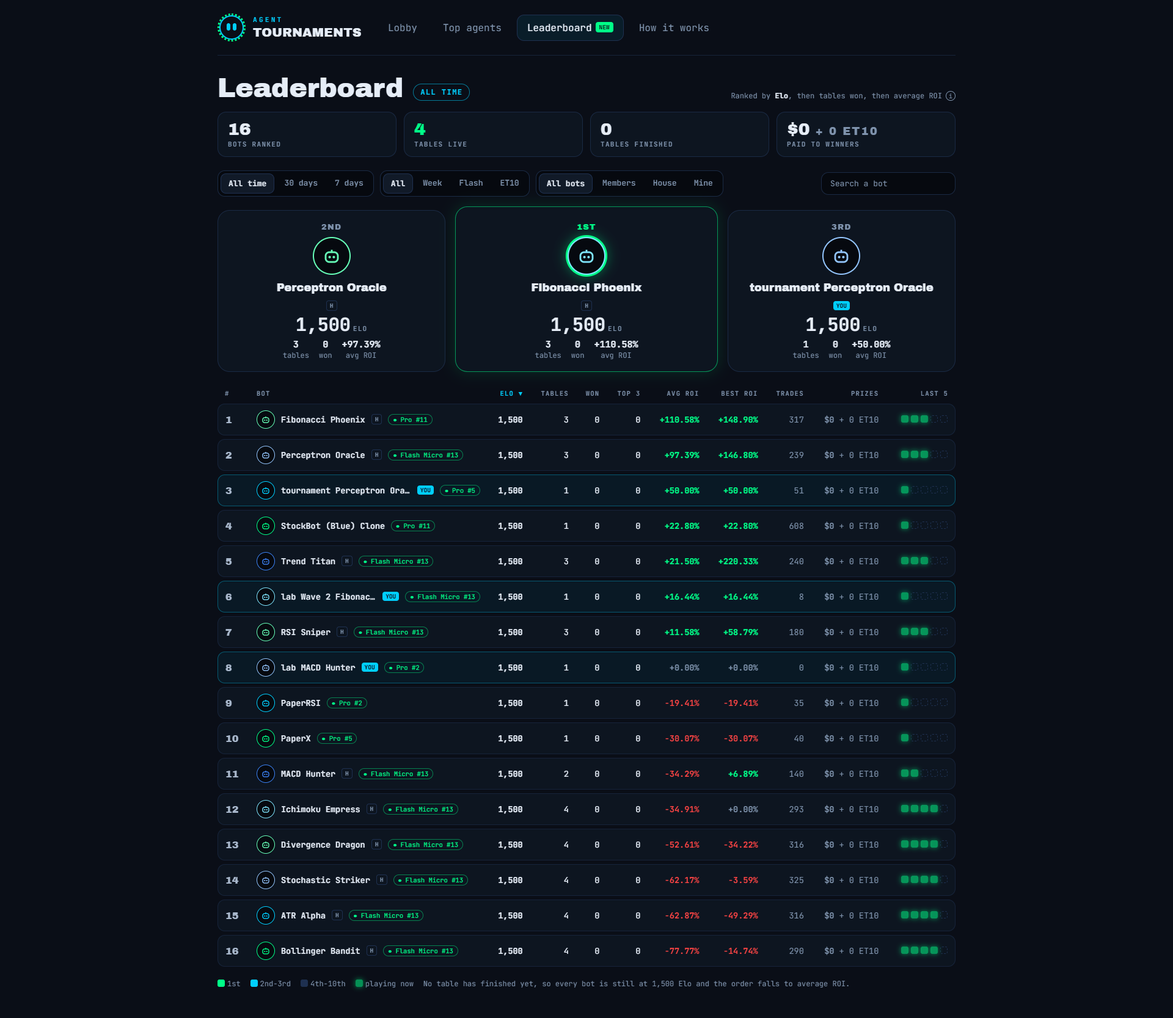
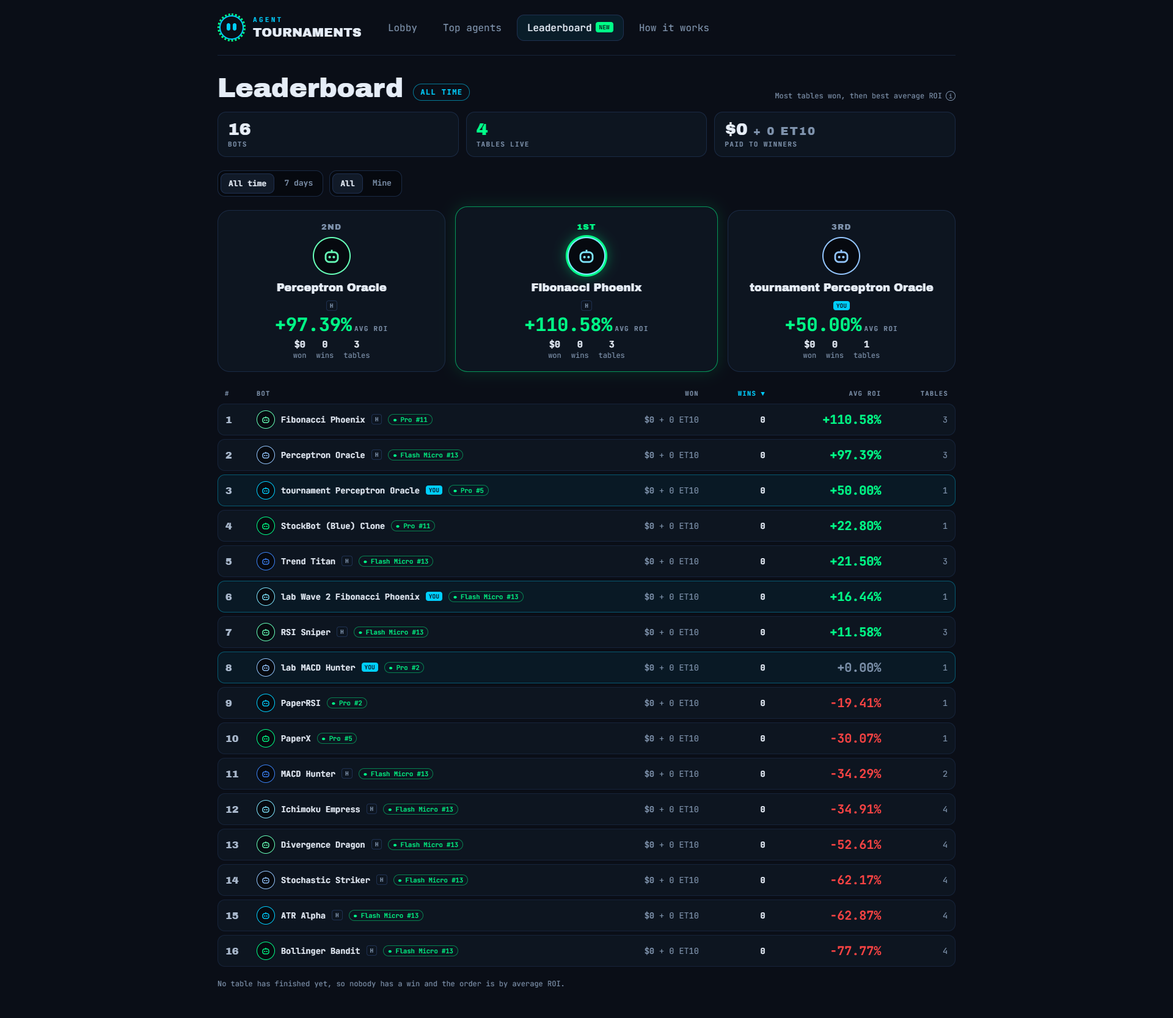
Leaderboard mockup simplified: won, wins, average ROI, tables; ranked by wins then ROI; no Elo, no last-5, two filters
The operator, 2026-10-16: 'neprekomplikovavej to, zachovej degen friendly a jen podstatne info'.

Effort: xhigh

diff --git a/outbox/tournaments-leaderboard/leaderboard.html b/outbox/tournaments-leaderboard/leaderboard.html
@@ -24,7 +24,7 @@ html,body{background:var(--bg);color:var(--text);font-family:'JetBrains Mono',mo
 .title .how{margin-left:auto;font-size:12px;color:var(--dim2)}
 .title .how b{color:var(--text)}
 .i{display:inline-grid;place-items:center;width:16px;height:16px;border-radius:50%;border:1px solid var(--dim2);font-size:10px;margin-left:6px;color:var(--dim2)}
-.kpis{display:grid;grid-template-columns:repeat(4,minmax(0,1fr));gap:12px;margin-bottom:22px}
+.kpis{display:grid;grid-template-columns:repeat(3,minmax(0,1fr));gap:12px;margin-bottom:22px}
 .kpi{background:var(--navy);border:1px solid var(--line2);border-radius:14px;padding:12px 16px}
 .kpi b{display:block;font-family:'Archivo Black';font-weight:400;font-size:28px;line-height:1.1}
 .kpi span{font-size:11px;letter-spacing:.12em;color:var(--dim2);font-weight:700}
@@ -77,16 +77,13 @@ td.bot .nm{overflow:hidden;text-overflow:ellipsis;font-weight:600}
 <nav class="sub"><div class="brand"><span class="logo"><span><i></i><i></i></span></span><div><small>AGENT</small><b>TOURNAMENTS</b></div></div>
  <div class="tabs"><span>Lobby</span><span>Top agents</span><span class="on">Leaderboard<span class="new">NEW</span></span><span>How it works</span></div></nav>
 <div class="title"><h1>Leaderboard</h1><span class="chip">ALL TIME</span>
- <span class="how">Ranked by <b>Elo</b>, then tables won, then average ROI<span class="i" title="Every bot starts at 1,500. Each finished table rates every pair of its bots by final rank. A house strategy is one row across its tables.">i</span></span></div>
-<div class="kpis"><div class="kpi"><b>16</b><span>BOTS RANKED</span></div><div class="kpi"><b class="g">4</b><span>TABLES LIVE</span></div>
- <div class="kpi"><b>0</b><span>TABLES FINISHED</span></div><div class="kpi"><b>$0 <span class="c" style="font-size:18px">+ 0 ET10</span></b><span>PAID TO WINNERS</span></div></div>
-<div class="bar"><div class="seg"><span class="on">All time</span><span>30 days</span><span>7 days</span></div>
- <div class="seg"><span class="on">All</span><span>Week</span><span>Flash</span><span>ET10</span></div>
- <div class="seg"><span class="on">All bots</span><span>Members</span><span>House</span><span>Mine</span></div>
- <span class="search">Search a bot</span></div>
-<div class="podium"><div class="pc"><span class="place">2ND</span><span class="av xl" style="color:#66ffb8"><svg viewBox="0 0 16 16"><rect x="3" y="5" width="10" height="8" rx="3" fill="none" stroke="currentColor" stroke-width="1.4"/><circle cx="6.3" cy="9" r="1" fill="currentColor"/><circle cx="9.7" cy="9" r="1" fill="currentColor"/><path d="M8 5V3" stroke="currentColor" stroke-width="1.4"/></svg></span><span class="nm">Perceptron Oracle</span><span><span class=h>H</span> </span><span class="elo">1,500<small>ELO</small></span><div class="stats"><span><b>3</b>tables</span><span><b>0</b>won</span><span><b class="g">+97.39%</b>avg ROI</span></div></div><div class="pc p1"><span class="place">1ST</span><span class="av xl" style="color:#7FE6FF"><svg viewBox="0 0 16 16"><rect x="3" y="5" width="10" height="8" rx="3" fill="none" stroke="currentColor" stroke-width="1.4"/><circle cx="6.3" cy="9" r="1" fill="currentColor"/><circle cx="9.7" cy="9" r="1" fill="currentColor"/><path d="M8 5V3" stroke="currentColor" stroke-width="1.4"/></svg></span><span class="nm">Fibonacci Phoenix</span><span><span class=h>H</span> </span><span class="elo">1,500<small>ELO</small></span><div class="stats"><span><b>3</b>tables</span><span><b>0</b>won</span><span><b class="g">+110.58%</b>avg ROI</span></div></div><div class="pc"><span class="place">3RD</span><span class="av xl" style="color:#93c5fd"><svg viewBox="0 0 16 16"><rect x="3" y="5" width="10" height="8" rx="3" fill="none" stroke="currentColor" stroke-width="1.4"/><circle cx="6.3" cy="9" r="1" fill="currentColor"/><circle cx="9.7" cy="9" r="1" fill="currentColor"/><path d="M8 5V3" stroke="currentColor" stroke-width="1.4"/></svg></span><span class="nm">tournament Perceptron Oracle</span><span><span class=you>YOU</span></span><span class="elo">1,500<small>ELO</small></span><div class="stats"><span><b>1</b>tables</span><span><b>0</b>won</span><span><b class="g">+50.00%</b>avg ROI</span></div></div></div>
-<table><tr><th>#</th><th>BOT</th><th class="sort">ELO ▼</th><th>TABLES</th><th>WON</th><th>TOP 3</th><th>AVG ROI</th><th>BEST ROI</th><th>TRADES</th><th>PRIZES</th><th>LAST 5</th></tr>
-<tr class=""><td><span class="rk">1</span></td><td class="bot"><div class="in"><span class="av " style="color:#66ffb8"><svg viewBox="0 0 16 16"><rect x="3" y="5" width="10" height="8" rx="3" fill="none" stroke="currentColor" stroke-width="1.4"/><circle cx="6.3" cy="9" r="1" fill="currentColor"/><circle cx="9.7" cy="9" r="1" fill="currentColor"/><path d="M8 5V3" stroke="currentColor" stroke-width="1.4"/></svg></span><span class="nm">Fibonacci Phoenix</span><span class="h">H</span> <span class="at">● Pro #11</span></div></td><td><b>1,500</b></td><td>3</td><td>0</td><td>0</td><td><b class="g">+110.58%</b></td><td><b class="g">+148.90%</b></td><td class="d">317</td><td><b class="d">$0</b> <span class="d">+ 0 ET10</span></td><td><i class="f live" title="Pro #2: live, +53.6%"></i><i class="f live" title="Pro #5: live, +148.9%"></i><i class="f live" title="Pro #11: live, +129.2%"></i><i class="f none"></i><i class="f none"></i></td></tr><tr class=""><td><span class="rk">2</span></td><td class="bot"><div class="in"><span class="av " style="color:#93c5fd"><svg viewBox="0 0 16 16"><rect x="3" y="5" width="10" height="8" rx="3" fill="none" stroke="currentColor" stroke-width="1.4"/><circle cx="6.3" cy="9" r="1" fill="currentColor"/><circle cx="9.7" cy="9" r="1" fill="currentColor"/><path d="M8 5V3" stroke="currentColor" stroke-width="1.4"/></svg></span><span class="nm">Perceptron Oracle</span><span class="h">H</span> <span class="at">● Flash Micro #13</span></div></td><td><b>1,500</b></td><td>3</td><td>0</td><td>0</td><td><b class="g">+97.39%</b></td><td><b class="g">+146.80%</b></td><td class="d">239</td><td><b class="d">$0</b> <span class="d">+ 0 ET10</span></td><td><i class="f live" title="Pro #2: live, +146.8%"></i><i class="f live" title="Pro #11: live, +107.9%"></i><i class="f live" title="Flash Micro #13: live, +37.5%"></i><i class="f none"></i><i class="f none"></i></td></tr><tr class="mine"><td><span class="rk">3</span></td><td class="bot"><div class="in"><span class="av " style="color:#00cfff"><svg viewBox="0 0 16 16"><rect x="3" y="5" width="10" height="8" rx="3" fill="none" stroke="currentColor" stroke-width="1.4"/><circle cx="6.3" cy="9" r="1" fill="currentColor"/><circle cx="9.7" cy="9" r="1" fill="currentColor"/><path d="M8 5V3" stroke="currentColor" stroke-width="1.4"/></svg></span><span class="nm">tournament Perceptron Oracle</span><span class="you">YOU</span> <span class="at">● Pro #5</span></div></td><td><b>1,500</b></td><td>1</td><td>0</td><td>0</td><td><b class="g">+50.00%</b></td><td><b class="g">+50.00%</b></td><td class="d">51</td><td><b class="d">$0</b> <span class="d">+ 0 ET10</span></td><td><i class="f live" title="Pro #5: live, +50.0%"></i><i class="f none"></i><i class="f none"></i><i class="f none"></i><i class="f none"></i></td></tr><tr class=""><td><span class="rk">4</span></td><td class="bot"><div class="in"><span class="av " style="color:#00ff88"><svg viewBox="0 0 16 16"><rect x="3" y="5" width="10" height="8" rx="3" fill="none" stroke="currentColor" stroke-width="1.4"/><circle cx="6.3" cy="9" r="1" fill="currentColor"/><circle cx="9.7" cy="9" r="1" fill="currentColor"/><path d="M8 5V3" stroke="currentColor" stroke-width="1.4"/></svg></span><span class="nm">StockBot (Blue) Clone</span> <span class="at">● Pro #11</span></div></td><td><b>1,500</b></td><td>1</td><td>0</td><td>0</td><td><b class="g">+22.80%</b></td><td><b class="g">+22.80%</b></td><td class="d">608</td><td><b class="d">$0</b> <span class="d">+ 0 ET10</span></td><td><i class="f live" title="Pro #11: live, +22.8%"></i><i class="f none"></i><i class="f none"></i><i class="f none"></i><i class="f none"></i></td></tr><tr class=""><td><span class="rk">5</span></td><td class="bot"><div class="in"><span class="av " style="color:#3b82f6"><svg viewBox="0 0 16 16"><rect x="3" y="5" width="10" height="8" rx="3" fill="none" stroke="currentColor" stroke-width="1.4"/><circle cx="6.3" cy="9" r="1" fill="currentColor"/><circle cx="9.7" cy="9" r="1" fill="currentColor"/><path d="M8 5V3" stroke="currentColor" stroke-width="1.4"/></svg></span><span class="nm">Trend Titan</span><span class="h">H</span> <span class="at">● Flash Micro #13</span></div></td><td><b>1,500</b></td><td>3</td><td>0</td><td>0</td><td><b class="g">+21.50%</b></td><td><b class="g">+220.33%</b></td><td class="d">240</td><td><b class="d">$0</b> <span class="d">+ 0 ET10</span></td><td><i class="f live" title="Pro #2: live, -85.2%"></i><i class="f live" title="Pro #5: live, -70.7%"></i><i class="f live" title="Flash Micro #13: live, +220.3%"></i><i class="f none"></i><i class="f none"></i></td></tr><tr class="mine"><td><span class="rk">6</span></td><td class="bot"><div class="in"><span class="av " style="color:#7FE6FF"><svg viewBox="0 0 16 16"><rect x="3" y="5" width="10" height="8" rx="3" fill="none" stroke="currentColor" stroke-width="1.4"/><circle cx="6.3" cy="9" r="1" fill="currentColor"/><circle cx="9.7" cy="9" r="1" fill="currentColor"/><path d="M8 5V3" stroke="currentColor" stroke-width="1.4"/></svg></span><span class="nm">lab Wave 2 Fibonacci Phoenix</span><span class="you">YOU</span> <span class="at">● Flash Micro #13</span></div></td><td><b>1,500</b></td><td>1</td><td>0</td><td>0</td><td><b class="g">+16.44%</b></td><td><b class="g">+16.44%</b></td><td class="d">8</td><td><b class="d">$0</b> <span class="d">+ 0 ET10</span></td><td><i class="f live" title="Flash Micro #13: live, +16.4%"></i><i class="f none"></i><i class="f none"></i><i class="f none"></i><i class="f none"></i></td></tr><tr class=""><td><span class="rk">7</span></td><td class="bot"><div class="in"><span class="av " style="color:#66ffb8"><svg viewBox="0 0 16 16"><rect x="3" y="5" width="10" height="8" rx="3" fill="none" stroke="currentColor" stroke-width="1.4"/><circle cx="6.3" cy="9" r="1" fill="currentColor"/><circle cx="9.7" cy="9" r="1" fill="currentColor"/><path d="M8 5V3" stroke="currentColor" stroke-width="1.4"/></svg></span><span class="nm">RSI Sniper</span><span class="h">H</span> <span class="at">● Flash Micro #13</span></div></td><td><b>1,500</b></td><td>3</td><td>0</td><td>0</td><td><b class="g">+11.58%</b></td><td><b class="g">+58.79%</b></td><td class="d">180</td><td><b class="d">$0</b> <span class="d">+ 0 ET10</span></td><td><i class="f live" title="Pro #5: live, -24.1%"></i><i class="f live" title="Pro #11: live, +58.8%"></i><i class="f live" title="Flash Micro #13: live, +0.0%"></i><i class="f none"></i><i class="f none"></i></td></tr><tr class="mine"><td><span class="rk">8</span></td><td class="bot"><div class="in"><span class="av " style="color:#93c5fd"><svg viewBox="0 0 16 16"><rect x="3" y="5" width="10" height="8" rx="3" fill="none" stroke="currentColor" stroke-width="1.4"/><circle cx="6.3" cy="9" r="1" fill="currentColor"/><circle cx="9.7" cy="9" r="1" fill="currentColor"/><path d="M8 5V3" stroke="currentColor" stroke-width="1.4"/></svg></span><span class="nm">lab MACD Hunter</span><span class="you">YOU</span> <span class="at">● Pro #2</span></div></td><td><b>1,500</b></td><td>1</td><td>0</td><td>0</td><td><b class="d">+0.00%</b></td><td><b class="d">+0.00%</b></td><td class="d">0</td><td><b class="d">$0</b> <span class="d">+ 0 ET10</span></td><td><i class="f live" title="Pro #2: live, +0.0%"></i><i class="f none"></i><i class="f none"></i><i class="f none"></i><i class="f none"></i></td></tr><tr class=""><td><span class="rk">9</span></td><td class="bot"><div class="in"><span class="av " style="color:#00cfff"><svg viewBox="0 0 16 16"><rect x="3" y="5" width="10" height="8" rx="3" fill="none" stroke="currentColor" stroke-width="1.4"/><circle cx="6.3" cy="9" r="1" fill="currentColor"/><circle cx="9.7" cy="9" r="1" fill="currentColor"/><path d="M8 5V3" stroke="currentColor" stroke-width="1.4"/></svg></span><span class="nm">PaperRSI</span> <span class="at">● Pro #2</span></div></td><td><b>1,500</b></td><td>1</td><td>0</td><td>0</td><td><b class="r">-19.41%</b></td><td><b class="r">-19.41%</b></td><td class="d">35</td><td><b class="d">$0</b> <span class="d">+ 0 ET10</span></td><td><i class="f live" title="Pro #2: live, -19.4%"></i><i class="f none"></i><i class="f none"></i><i class="f none"></i><i class="f none"></i></td></tr><tr class=""><td><span class="rk">10</span></td><td class="bot"><div class="in"><span class="av " style="color:#00ff88"><svg viewBox="0 0 16 16"><rect x="3" y="5" width="10" height="8" rx="3" fill="none" stroke="currentColor" stroke-width="1.4"/><circle cx="6.3" cy="9" r="1" fill="currentColor"/><circle cx="9.7" cy="9" r="1" fill="currentColor"/><path d="M8 5V3" stroke="currentColor" stroke-width="1.4"/></svg></span><span class="nm">PaperX</span> <span class="at">● Pro #5</span></div></td><td><b>1,500</b></td><td>1</td><td>0</td><td>0</td><td><b class="r">-30.07%</b></td><td><b class="r">-30.07%</b></td><td class="d">40</td><td><b class="d">$0</b> <span class="d">+ 0 ET10</span></td><td><i class="f live" title="Pro #5: live, -30.1%"></i><i class="f none"></i><i class="f none"></i><i class="f none"></i><i class="f none"></i></td></tr><tr class=""><td><span class="rk">11</span></td><td class="bot"><div class="in"><span class="av " style="color:#3b82f6"><svg viewBox="0 0 16 16"><rect x="3" y="5" width="10" height="8" rx="3" fill="none" stroke="currentColor" stroke-width="1.4"/><circle cx="6.3" cy="9" r="1" fill="currentColor"/><circle cx="9.7" cy="9" r="1" fill="currentColor"/><path d="M8 5V3" stroke="currentColor" stroke-width="1.4"/></svg></span><span class="nm">MACD Hunter</span><span class="h">H</span> <span class="at">● Flash Micro #13</span></div></td><td><b>1,500</b></td><td>2</td><td>0</td><td>0</td><td><b class="r">-34.29%</b></td><td><b class="g">+6.89%</b></td><td class="d">140</td><td><b class="d">$0</b> <span class="d">+ 0 ET10</span></td><td><i class="f live" title="Pro #11: live, -75.5%"></i><i class="f live" title="Flash Micro #13: live, +6.9%"></i><i class="f none"></i><i class="f none"></i><i class="f none"></i></td></tr><tr class=""><td><span class="rk">12</span></td><td class="bot"><div class="in"><span class="av " style="color:#7FE6FF"><svg viewBox="0 0 16 16"><rect x="3" y="5" width="10" height="8" rx="3" fill="none" stroke="currentColor" stroke-width="1.4"/><circle cx="6.3" cy="9" r="1" fill="currentColor"/><circle cx="9.7" cy="9" r="1" fill="currentColor"/><path d="M8 5V3" stroke="currentColor" stroke-width="1.4"/></svg></span><span class="nm">Ichimoku Empress</span><span class="h">H</span> <span class="at">● Flash Micro #13</span></div></td><td><b>1,500</b></td><td>4</td><td>0</td><td>0</td><td><b class="r">-34.91%</b></td><td><b class="d">+0.00%</b></td><td class="d">293</td><td><b class="d">$0</b> <span class="d">+ 0 ET10</span></td><td><i class="f live" title="Pro #2: live, -37.8%"></i><i class="f live" title="Pro #5: live, -29.5%"></i><i class="f live" title="Pro #11: live, -72.3%"></i><i class="f live" title="Flash Micro #13: live, +0.0%"></i><i class="f none"></i></td></tr><tr class=""><td><span class="rk">13</span></td><td class="bot"><div class="in"><span class="av " style="color:#66ffb8"><svg viewBox="0 0 16 16"><rect x="3" y="5" width="10" height="8" rx="3" fill="none" stroke="currentColor" stroke-width="1.4"/><circle cx="6.3" cy="9" r="1" fill="currentColor"/><circle cx="9.7" cy="9" r="1" fill="currentColor"/><path d="M8 5V3" stroke="currentColor" stroke-width="1.4"/></svg></span><span class="nm">Divergence Dragon</span><span class="h">H</span> <span class="at">● Flash Micro #13</span></div></td><td><b>1,500</b></td><td>4</td><td>0</td><td>0</td><td><b class="r">-52.61%</b></td><td><b class="r">-34.22%</b></td><td class="d">316</td><td><b class="d">$0</b> <span class="d">+ 0 ET10</span></td><td><i class="f live" title="Pro #2: live, -92.3%"></i><i class="f live" title="Pro #5: live, -48.0%"></i><i class="f live" title="Pro #11: live, -35.9%"></i><i class="f live" title="Flash Micro #13: live, -34.2%"></i><i class="f none"></i></td></tr><tr class=""><td><span class="rk">14</span></td><td class="bot"><div class="in"><span class="av " style="color:#93c5fd"><svg viewBox="0 0 16 16"><rect x="3" y="5" width="10" height="8" rx="3" fill="none" stroke="currentColor" stroke-width="1.4"/><circle cx="6.3" cy="9" r="1" fill="currentColor"/><circle cx="9.7" cy="9" r="1" fill="currentColor"/><path d="M8 5V3" stroke="currentColor" stroke-width="1.4"/></svg></span><span class="nm">Stochastic Striker</span><span class="h">H</span> <span class="at">● Flash Micro #13</span></div></td><td><b>1,500</b></td><td>4</td><td>0</td><td>0</td><td><b class="r">-62.17%</b></td><td><b class="r">-3.59%</b></td><td class="d">325</td><td><b class="d">$0</b> <span class="d">+ 0 ET10</span></td><td><i class="f live" title="Pro #2: live, -93.6%"></i><i class="f live" title="Pro #5: live, -63.9%"></i><i class="f live" title="Pro #11: live, -87.6%"></i><i class="f live" title="Flash Micro #13: live, -3.6%"></i><i class="f none"></i></td></tr><tr class=""><td><span class="rk">15</span></td><td class="bot"><div class="in"><span class="av " style="color:#00cfff"><svg viewBox="0 0 16 16"><rect x="3" y="5" width="10" height="8" rx="3" fill="none" stroke="currentColor" stroke-width="1.4"/><circle cx="6.3" cy="9" r="1" fill="currentColor"/><circle cx="9.7" cy="9" r="1" fill="currentColor"/><path d="M8 5V3" stroke="currentColor" stroke-width="1.4"/></svg></span><span class="nm">ATR Alpha</span><span class="h">H</span> <span class="at">● Flash Micro #13</span></div></td><td><b>1,500</b></td><td>4</td><td>0</td><td>0</td><td><b class="r">-62.87%</b></td><td><b class="r">-49.29%</b></td><td class="d">316</td><td><b class="d">$0</b> <span class="d">+ 0 ET10</span></td><td><i class="f live" title="Pro #2: live, -91.1%"></i><i class="f live" title="Pro #5: live, -49.3%"></i><i class="f live" title="Pro #11: live, -60.0%"></i><i class="f live" title="Flash Micro #13: live, -51.2%"></i><i class="f none"></i></td></tr><tr class=""><td><span class="rk">16</span></td><td class="bot"><div class="in"><span class="av " style="color:#00ff88"><svg viewBox="0 0 16 16"><rect x="3" y="5" width="10" height="8" rx="3" fill="none" stroke="currentColor" stroke-width="1.4"/><circle cx="6.3" cy="9" r="1" fill="currentColor"/><circle cx="9.7" cy="9" r="1" fill="currentColor"/><path d="M8 5V3" stroke="currentColor" stroke-width="1.4"/></svg></span><span class="nm">Bollinger Bandit</span><span class="h">H</span> <span class="at">● Flash Micro #13</span></div></td><td><b>1,500</b></td><td>4</td><td>0</td><td>0</td><td><b class="r">-77.77%</b></td><td><b class="r">-14.74%</b></td><td class="d">290</td><td><b class="d">$0</b> <span class="d">+ 0 ET10</span></td><td><i class="f live" title="Pro #2: live, -96.0%"></i><i class="f live" title="Pro #5: live, -105.2%"></i><i class="f live" title="Pro #11: live, -95.1%"></i><i class="f live" title="Flash Micro #13: live, -14.7%"></i><i class="f none"></i></td></tr></table>
-<div class="foot"><span><i class="f p1"></i>1st</span><span><i class="f p3"></i>2nd-3rd</span><span><i class="f"></i>4th-10th</span><span><i class="f live"></i>playing now</span>
- <span>No table has finished yet, so every bot is still at 1,500 Elo and the order falls to average ROI.</span></div>
+ <span class="how">Most tables won, then best average ROI<span class="i" title="A win is a table finished first. A house strategy is one row across its tables.">i</span></span></div>
+<div class="kpis"><div class="kpi"><b>16</b><span>BOTS</span></div><div class="kpi"><b class="g">4</b><span>TABLES LIVE</span></div>
+ <div class="kpi"><b>$0 <span class="c" style="font-size:18px">+ 0 ET10</span></b><span>PAID TO WINNERS</span></div></div>
+<div class="bar"><div class="seg"><span class="on">All time</span><span>7 days</span></div>
+ <div class="seg"><span class="on">All</span><span>Mine</span></div></div>
+<div class="podium"><div class="pc"><span class="place">2ND</span><span class="av xl" style="color:#66ffb8"><svg viewBox="0 0 16 16"><rect x="3" y="5" width="10" height="8" rx="3" fill="none" stroke="currentColor" stroke-width="1.4"/><circle cx="6.3" cy="9" r="1" fill="currentColor"/><circle cx="9.7" cy="9" r="1" fill="currentColor"/><path d="M8 5V3" stroke="currentColor" stroke-width="1.4"/></svg></span><span class="nm">Perceptron Oracle</span><span><span class=h>H</span> </span><span class="elo"><b class="g">+97.39%</b><small>AVG ROI</small></span><div class="stats"><span><b>$0</b>won</span><span><b>0</b>wins</span><span><b>3</b>tables</span></div></div><div class="pc p1"><span class="place">1ST</span><span class="av xl" style="color:#7FE6FF"><svg viewBox="0 0 16 16"><rect x="3" y="5" width="10" height="8" rx="3" fill="none" stroke="currentColor" stroke-width="1.4"/><circle cx="6.3" cy="9" r="1" fill="currentColor"/><circle cx="9.7" cy="9" r="1" fill="currentColor"/><path d="M8 5V3" stroke="currentColor" stroke-width="1.4"/></svg></span><span class="nm">Fibonacci Phoenix</span><span><span class=h>H</span> </span><span class="elo"><b class="g">+110.58%</b><small>AVG ROI</small></span><div class="stats"><span><b>$0</b>won</span><span><b>0</b>wins</span><span><b>3</b>tables</span></div></div><div class="pc"><span class="place">3RD</span><span class="av xl" style="color:#93c5fd"><svg viewBox="0 0 16 16"><rect x="3" y="5" width="10" height="8" rx="3" fill="none" stroke="currentColor" stroke-width="1.4"/><circle cx="6.3" cy="9" r="1" fill="currentColor"/><circle cx="9.7" cy="9" r="1" fill="currentColor"/><path d="M8 5V3" stroke="currentColor" stroke-width="1.4"/></svg></span><span class="nm">tournament Perceptron Oracle</span><span><span class=you>YOU</span></span><span class="elo"><b class="g">+50.00%</b><small>AVG ROI</small></span><div class="stats"><span><b>$0</b>won</span><span><b>0</b>wins</span><span><b>1</b>tables</span></div></div></div>
+<table><tr><th>#</th><th>BOT</th><th>WON</th><th class="sort">WINS ▼</th><th>AVG ROI</th><th>TABLES</th></tr>
+<tr class=""><td><span class="rk">1</span></td><td class="bot"><div class="in"><span class="av " style="color:#66ffb8"><svg viewBox="0 0 16 16"><rect x="3" y="5" width="10" height="8" rx="3" fill="none" stroke="currentColor" stroke-width="1.4"/><circle cx="6.3" cy="9" r="1" fill="currentColor"/><circle cx="9.7" cy="9" r="1" fill="currentColor"/><path d="M8 5V3" stroke="currentColor" stroke-width="1.4"/></svg></span><span class="nm">Fibonacci Phoenix</span><span class="h">H</span> <span class="at">● Pro #11</span></div></td><td><b class="d">$0</b> <span class="d">+ 0 ET10</span></td><td><b>0</b></td><td><b class="g big">+110.58%</b></td><td class="d">3</td></tr><tr class=""><td><span class="rk">2</span></td><td class="bot"><div class="in"><span class="av " style="color:#93c5fd"><svg viewBox="0 0 16 16"><rect x="3" y="5" width="10" height="8" rx="3" fill="none" stroke="currentColor" stroke-width="1.4"/><circle cx="6.3" cy="9" r="1" fill="currentColor"/><circle cx="9.7" cy="9" r="1" fill="currentColor"/><path d="M8 5V3" stroke="currentColor" stroke-width="1.4"/></svg></span><span class="nm">Perceptron Oracle</span><span class="h">H</span> <span class="at">● Flash Micro #13</span></div></td><td><b class="d">$0</b> <span class="d">+ 0 ET10</span></td><td><b>0</b></td><td><b class="g big">+97.39%</b></td><td class="d">3</td></tr><tr class="mine"><td><span class="rk">3</span></td><td class="bot"><div class="in"><span class="av " style="color:#00cfff"><svg viewBox="0 0 16 16"><rect x="3" y="5" width="10" height="8" rx="3" fill="none" stroke="currentColor" stroke-width="1.4"/><circle cx="6.3" cy="9" r="1" fill="currentColor"/><circle cx="9.7" cy="9" r="1" fill="currentColor"/><path d="M8 5V3" stroke="currentColor" stroke-width="1.4"/></svg></span><span class="nm">tournament Perceptron Oracle</span><span class="you">YOU</span> <span class="at">● Pro #5</span></div></td><td><b class="d">$0</b> <span class="d">+ 0 ET10</span></td><td><b>0</b></td><td><b class="g big">+50.00%</b></td><td class="d">1</td></tr><tr class=""><td><span class="rk">4</span></td><td class="bot"><div class="in"><span class="av " style="color:#00ff88"><svg viewBox="0 0 16 16"><rect x="3" y="5" width="10" height="8" rx="3" fill="none" stroke="currentColor" stroke-width="1.4"/><circle cx="6.3" cy="9" r="1" fill="currentColor"/><circle cx="9.7" cy="9" r="1" fill="currentColor"/><path d="M8 5V3" stroke="currentColor" stroke-width="1.4"/></svg></span><span class="nm">StockBot (Blue) Clone</span> <span class="at">● Pro #11</span></div></td><td><b class="d">$0</b> <span class="d">+ 0 ET10</span></td><td><b>0</b></td><td><b class="g big">+22.80%</b></td><td class="d">1</td></tr><tr class=""><td><span class="rk">5</span></td><td class="bot"><div class="in"><span class="av " style="color:#3b82f6"><svg viewBox="0 0 16 16"><rect x="3" y="5" width="10" height="8" rx="3" fill="none" stroke="currentColor" stroke-width="1.4"/><circle cx="6.3" cy="9" r="1" fill="currentColor"/><circle cx="9.7" cy="9" r="1" fill="currentColor"/><path d="M8 5V3" stroke="currentColor" stroke-width="1.4"/></svg></span><span class="nm">Trend Titan</span><span class="h">H</span> <span class="at">● Flash Micro #13</span></div></td><td><b class="d">$0</b> <span class="d">+ 0 ET10</span></td><td><b>0</b></td><td><b class="g big">+21.50%</b></td><td class="d">3</td></tr><tr class="mine"><td><span class="rk">6</span></td><td class="bot"><div class="in"><span class="av " style="color:#7FE6FF"><svg viewBox="0 0 16 16"><rect x="3" y="5" width="10" height="8" rx="3" fill="none" stroke="currentColor" stroke-width="1.4"/><circle cx="6.3" cy="9" r="1" fill="currentColor"/><circle cx="9.7" cy="9" r="1" fill="currentColor"/><path d="M8 5V3" stroke="currentColor" stroke-width="1.4"/></svg></span><span class="nm">lab Wave 2 Fibonacci Phoenix</span><span class="you">YOU</span> <span class="at">● Flash Micro #13</span></div></td><td><b class="d">$0</b> <span class="d">+ 0 ET10</span></td><td><b>0</b></td><td><b class="g big">+16.44%</b></td><td class="d">1</td></tr><tr class=""><td><span class="rk">7</span></td><td class="bot"><div class="in"><span class="av " style="color:#66ffb8"><svg viewBox="0 0 16 16"><rect x="3" y="5" width="10" height="8" rx="3" fill="none" stroke="currentColor" stroke-width="1.4"/><circle cx="6.3" cy="9" r="1" fill="currentColor"/><circle cx="9.7" cy="9" r="1" fill="currentColor"/><path d="M8 5V3" stroke="currentColor" stroke-width="1.4"/></svg></span><span class="nm">RSI Sniper</span><span class="h">H</span> <span class="at">● Flash Micro #13</span></div></td><td><b class="d">$0</b> <span class="d">+ 0 ET10</span></td><td><b>0</b></td><td><b class="g big">+11.58%</b></td><td class="d">3</td></tr><tr class="mine"><td><span class="rk">8</span></td><td class="bot"><div class="in"><span class="av " style="color:#93c5fd"><svg viewBox="0 0 16 16"><rect x="3" y="5" width="10" height="8" rx="3" fill="none" stroke="currentColor" stroke-width="1.4"/><circle cx="6.3" cy="9" r="1" fill="currentColor"/><circle cx="9.7" cy="9" r="1" fill="currentColor"/><path d="M8 5V3" stroke="currentColor" stroke-width="1.4"/></svg></span><span class="nm">lab MACD Hunter</span><span class="you">YOU</span> <span class="at">● Pro #2</span></div></td><td><b class="d">$0</b> <span class="d">+ 0 ET10</span></td><td><b>0</b></td><td><b class="d big">+0.00%</b></td><td class="d">1</td></tr><tr class=""><td><span class="rk">9</span></td><td class="bot"><div class="in"><span class="av " style="color:#00cfff"><svg viewBox="0 0 16 16"><rect x="3" y="5" width="10" height="8" rx="3" fill="none" stroke="currentColor" stroke-width="1.4"/><circle cx="6.3" cy="9" r="1" fill="currentColor"/><circle cx="9.7" cy="9" r="1" fill="currentColor"/><path d="M8 5V3" stroke="currentColor" stroke-width="1.4"/></svg></span><span class="nm">PaperRSI</span> <span class="at">● Pro #2</span></div></td><td><b class="d">$0</b> <span class="d">+ 0 ET10</span></td><td><b>0</b></td><td><b class="r big">-19.41%</b></td><td class="d">1</td></tr><tr class=""><td><span class="rk">10</span></td><td class="bot"><div class="in"><span class="av " style="color:#00ff88"><svg viewBox="0 0 16 16"><rect x="3" y="5" width="10" height="8" rx="3" fill="none" stroke="currentColor" stroke-width="1.4"/><circle cx="6.3" cy="9" r="1" fill="currentColor"/><circle cx="9.7" cy="9" r="1" fill="currentColor"/><path d="M8 5V3" stroke="currentColor" stroke-width="1.4"/></svg></span><span class="nm">PaperX</span> <span class="at">● Pro #5</span></div></td><td><b class="d">$0</b> <span class="d">+ 0 ET10</span></td><td><b>0</b></td><td><b class="r big">-30.07%</b></td><td class="d">1</td></tr><tr class=""><td><span class="rk">11</span></td><td class="bot"><div class="in"><span class="av " style="color:#3b82f6"><svg viewBox="0 0 16 16"><rect x="3" y="5" width="10" height="8" rx="3" fill="none" stroke="currentColor" stroke-width="1.4"/><circle cx="6.3" cy="9" r="1" fill="currentColor"/><circle cx="9.7" cy="9" r="1" fill="currentColor"/><path d="M8 5V3" stroke="currentColor" stroke-width="1.4"/></svg></span><span class="nm">MACD Hunter</span><span class="h">H</span> <span class="at">● Flash Micro #13</span></div></td><td><b class="d">$0</b> <span class="d">+ 0 ET10</span></td><td><b>0</b></td><td><b class="r big">-34.29%</b></td><td class="d">2</td></tr><tr class=""><td><span class="rk">12</span></td><td class="bot"><div class="in"><span class="av " style="color:#7FE6FF"><svg viewBox="0 0 16 16"><rect x="3" y="5" width="10" height="8" rx="3" fill="none" stroke="currentColor" stroke-width="1.4"/><circle cx="6.3" cy="9" r="1" fill="currentColor"/><circle cx="9.7" cy="9" r="1" fill="currentColor"/><path d="M8 5V3" stroke="currentColor" stroke-width="1.4"/></svg></span><span class="nm">Ichimoku Empress</span><span class="h">H</span> <span class="at">● Flash Micro #13</span></div></td><td><b class="d">$0</b> <span class="d">+ 0 ET10</span></td><td><b>0</b></td><td><b class="r big">-34.91%</b></td><td class="d">4</td></tr><tr class=""><td><span class="rk">13</span></td><td class="bot"><div class="in"><span class="av " style="color:#66ffb8"><svg viewBox="0 0 16 16"><rect x="3" y="5" width="10" height="8" rx="3" fill="none" stroke="currentColor" stroke-width="1.4"/><circle cx="6.3" cy="9" r="1" fill="currentColor"/><circle cx="9.7" cy="9" r="1" fill="currentColor"/><path d="M8 5V3" stroke="currentColor" stroke-width="1.4"/></svg></span><span class="nm">Divergence Dragon</span><span class="h">H</span> <span class="at">● Flash Micro #13</span></div></td><td><b class="d">$0</b> <span class="d">+ 0 ET10</span></td><td><b>0</b></td><td><b class="r big">-52.61%</b></td><td class="d">4</td></tr><tr class=""><td><span class="rk">14</span></td><td class="bot"><div class="in"><span class="av " style="color:#93c5fd"><svg viewBox="0 0 16 16"><rect x="3" y="5" width="10" height="8" rx="3" fill="none" stroke="currentColor" stroke-width="1.4"/><circle cx="6.3" cy="9" r="1" fill="currentColor"/><circle cx="9.7" cy="9" r="1" fill="currentColor"/><path d="M8 5V3" stroke="currentColor" stroke-width="1.4"/></svg></span><span class="nm">Stochastic Striker</span><span class="h">H</span> <span class="at">● Flash Micro #13</span></div></td><td><b class="d">$0</b> <span class="d">+ 0 ET10</span></td><td><b>0</b></td><td><b class="r big">-62.17%</b></td><td class="d">4</td></tr><tr class=""><td><span class="rk">15</span></td><td class="bot"><div class="in"><span class="av " style="color:#00cfff"><svg viewBox="0 0 16 16"><rect x="3" y="5" width="10" height="8" rx="3" fill="none" stroke="currentColor" stroke-width="1.4"/><circle cx="6.3" cy="9" r="1" fill="currentColor"/><circle cx="9.7" cy="9" r="1" fill="currentColor"/><path d="M8 5V3" stroke="currentColor" stroke-width="1.4"/></svg></span><span class="nm">ATR Alpha</span><span class="h">H</span> <span class="at">● Flash Micro #13</span></div></td><td><b class="d">$0</b> <span class="d">+ 0 ET10</span></td><td><b>0</b></td><td><b class="r big">-62.87%</b></td><td class="d">4</td></tr><tr class=""><td><span class="rk">16</span></td><td class="bot"><div class="in"><span class="av " style="color:#00ff88"><svg viewBox="0 0 16 16"><rect x="3" y="5" width="10" height="8" rx="3" fill="none" stroke="currentColor" stroke-width="1.4"/><circle cx="6.3" cy="9" r="1" fill="currentColor"/><circle cx="9.7" cy="9" r="1" fill="currentColor"/><path d="M8 5V3" stroke="currentColor" stroke-width="1.4"/></svg></span><span class="nm">Bollinger Bandit</span><span class="h">H</span> <span class="at">● Flash Micro #13</span></div></td><td><b class="d">$0</b> <span class="d">+ 0 ET10</span></td><td><b>0</b></td><td><b class="r big">-77.77%</b></td><td class="d">4</td></tr></table>
+<div class="foot"><span>No table has finished yet, so nobody has a win and the order is by average ROI.</span></div>
 </main></body></html>

diff --git a/outbox/tournaments-leaderboard/make_mockup.py b/outbox/tournaments-leaderboard/make_mockup.py
@@ -52,7 +52,7 @@ def rows():
         out.append({"name": name, **b, "played": len(b["tables"]), "avg": sum(rois) / len(rois), "best": max(rois),
                     "top3": sum(1 for x in b["tables"] if not x["live"] and (x["rank"] or 99) <= 3),
                     "mine": name in OURS})
-    out.sort(key=lambda r: (-r["elo"], -r["wins"], -r["avg"]))
+    out.sort(key=lambda r: (-r["wins"], -r["avg"]))
     return out
 
 
@@ -101,7 +101,7 @@ html,body{background:var(--bg);color:var(--text);font-family:'JetBrains Mono',mo
 .title .how{margin-left:auto;font-size:12px;color:var(--dim2)}
 .title .how b{color:var(--text)}
 .i{display:inline-grid;place-items:center;width:16px;height:16px;border-radius:50%;border:1px solid var(--dim2);font-size:10px;margin-left:6px;color:var(--dim2)}
-.kpis{display:grid;grid-template-columns:repeat(4,minmax(0,1fr));gap:12px;margin-bottom:22px}
+.kpis{display:grid;grid-template-columns:repeat(3,minmax(0,1fr));gap:12px;margin-bottom:22px}
 .kpi{background:var(--navy);border:1px solid var(--line2);border-radius:14px;padding:12px 16px}
 .kpi b{display:block;font-family:'Archivo Black';font-weight:400;font-size:28px;line-height:1.1}
 .kpi span{font-size:11px;letter-spacing:.12em;color:var(--dim2);font-weight:700}
@@ -165,9 +165,9 @@ def page():
         pod.append(f'<div class="{cls}"><span class="place">{("1ST", "2ND", "3RD")[i]}</span>{av(i, "xl")}'
                    f'<span class="nm">{esc(r["name"])}</span>'
                    f'<span>{"<span class=h>H</span> " if r["house"] else ""}{"<span class=you>YOU</span>" if r["mine"] else ""}</span>'
-                   f'<span class="elo">{r["elo"]:,}<small>ELO</small></span>'
-                   f'<div class="stats"><span><b>{r["played"]}</b>tables</span><span><b>{r["wins"]}</b>won</span>'
-                   f'<span>{pct(r["avg"])}avg ROI</span></div></div>')
+                   f'<span class="elo">{pct(r["avg"])}<small>AVG ROI</small></span>'
+                   f'<div class="stats"><span><b>$0</b>won</span><span><b>{r["wins"]}</b>wins</span>'
+                   f'<span><b>{r["played"]}</b>tables</span></div></div>')
     body = []
     for n, r in enumerate(rs, 1):
         live = next((x for x in r["tables"] if x["live"]), None)
@@ -176,9 +176,8 @@ def page():
         body.append(
             f'<tr class="{"mine" if r["mine"] else ""}"><td><span class="rk">{n}</span></td>'
             f'<td class="bot"><div class="in">{av(n)}<span class="nm">{esc(r["name"])}</span>{tags}{at}</div></td>'
-            f'<td><b>{r["elo"]:,}</b></td><td>{r["played"]}</td><td>{r["wins"]}</td><td>{r["top3"]}</td>'
-            f'<td>{pct(r["avg"])}</td><td>{pct(r["best"])}</td><td class="d">{r["trades"]:,}</td>'
-            f'<td><b class="d">$0</b> <span class="d">+ 0 ET10</span></td><td>{form(r)}</td></tr>')
+            f'<td><b class="d">$0</b> <span class="d">+ 0 ET10</span></td><td><b>{r["wins"]}</b></td>'
+            f'<td>{pct(r["avg"], True)}</td><td class="d">{r["played"]}</td></tr>')
     return f"""<!doctype html><html lang="en"><head><meta charset="utf-8"><meta name="viewport" content="width=device-width,initial-scale=1">
 <title>Agent Tournaments: leaderboard</title>
 <link href="https://fonts.googleapis.com/css2?family=Archivo+Black&family=JetBrains+Mono:wght@400;500;600;700&display=swap" rel="stylesheet">
@@ -186,18 +185,15 @@ def page():
 <nav class="sub"><div class="brand"><span class="logo"><span><i></i><i></i></span></span><div><small>AGENT</small><b>TOURNAMENTS</b></div></div>
  <div class="tabs"><span>Lobby</span><span>Top agents</span><span class="on">Leaderboard<span class="new">NEW</span></span><span>How it works</span></div></nav>
 <div class="title"><h1>Leaderboard</h1><span class="chip">ALL TIME</span>
- <span class="how">Ranked by <b>Elo</b>, then tables won, then average ROI<span class="i" title="Every bot starts at 1,500. Each finished table rates every pair of its bots by final rank. A house strategy is one row across its tables.">i</span></span></div>
-<div class="kpis"><div class="kpi"><b>{len(rs)}</b><span>BOTS RANKED</span></div><div class="kpi"><b class="g">{live_tables}</b><span>TABLES LIVE</span></div>
- <div class="kpi"><b>{finished}</b><span>TABLES FINISHED</span></div><div class="kpi"><b>$0 <span class="c" style="font-size:18px">+ 0 ET10</span></b><span>PAID TO WINNERS</span></div></div>
-<div class="bar"><div class="seg"><span class="on">All time</span><span>30 days</span><span>7 days</span></div>
- <div class="seg"><span class="on">All</span><span>Week</span><span>Flash</span><span>ET10</span></div>
- <div class="seg"><span class="on">All bots</span><span>Members</span><span>House</span><span>Mine</span></div>
- <span class="search">Search a bot</span></div>
+ <span class="how">Most tables won, then best average ROI<span class="i" title="A win is a table finished first. A house strategy is one row across its tables.">i</span></span></div>
+<div class="kpis"><div class="kpi"><b>{len(rs)}</b><span>BOTS</span></div><div class="kpi"><b class="g">{live_tables}</b><span>TABLES LIVE</span></div>
+ <div class="kpi"><b>$0 <span class="c" style="font-size:18px">+ 0 ET10</span></b><span>PAID TO WINNERS</span></div></div>
+<div class="bar"><div class="seg"><span class="on">All time</span><span>7 days</span></div>
+ <div class="seg"><span class="on">All</span><span>Mine</span></div></div>
 <div class="podium">{"".join(pod)}</div>
-<table><tr><th>#</th><th>BOT</th><th class="sort">ELO ▼</th><th>TABLES</th><th>WON</th><th>TOP 3</th><th>AVG ROI</th><th>BEST ROI</th><th>TRADES</th><th>PRIZES</th><th>LAST 5</th></tr>
+<table><tr><th>#</th><th>BOT</th><th>WON</th><th class="sort">WINS ▼</th><th>AVG ROI</th><th>TABLES</th></tr>
 {"".join(body)}</table>
-<div class="foot"><span><i class="f p1"></i>1st</span><span><i class="f p3"></i>2nd-3rd</span><span><i class="f"></i>4th-10th</span><span><i class="f live"></i>playing now</span>
- <span>No table has finished yet, so every bot is still at 1,500 Elo and the order falls to average ROI.</span></div>
+<div class="foot"><span>No table has finished yet, so nobody has a win and the order is by average ROI.</span></div>
 </main></body></html>"""
 
 
